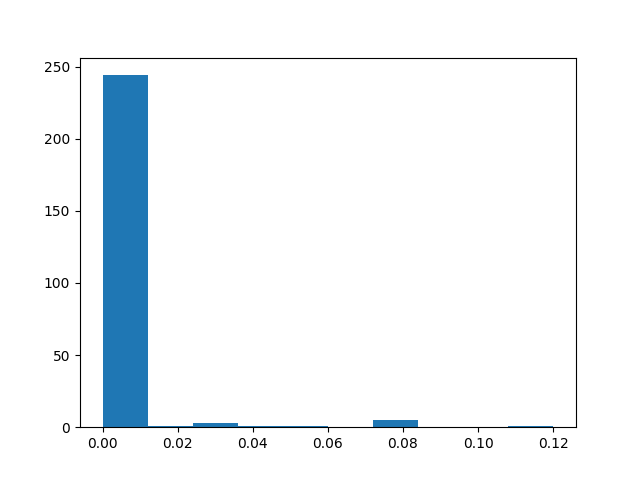
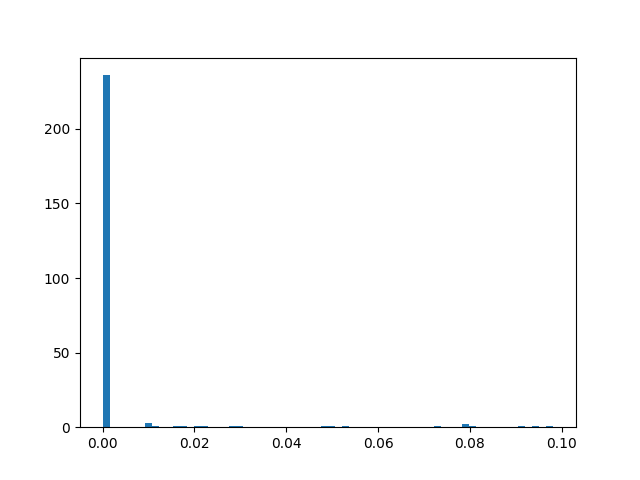
Changed binning

diff --git a/main.py b/main.py
@@ -90,7 +90,7 @@ if __name__ == '__main__':
     for idx, var in enumerate(variances):
         # compute a histogram using matplotlib
         print("Skew, kurtosis:", skew(var), kurtosis(var))
-        plt.hist(var)
+        plt.hist(var, bins=64)
         plt.show()
         plt.savefig('graphs/variance_interp_' + str(idx) + '.png')
         plt.clf()
